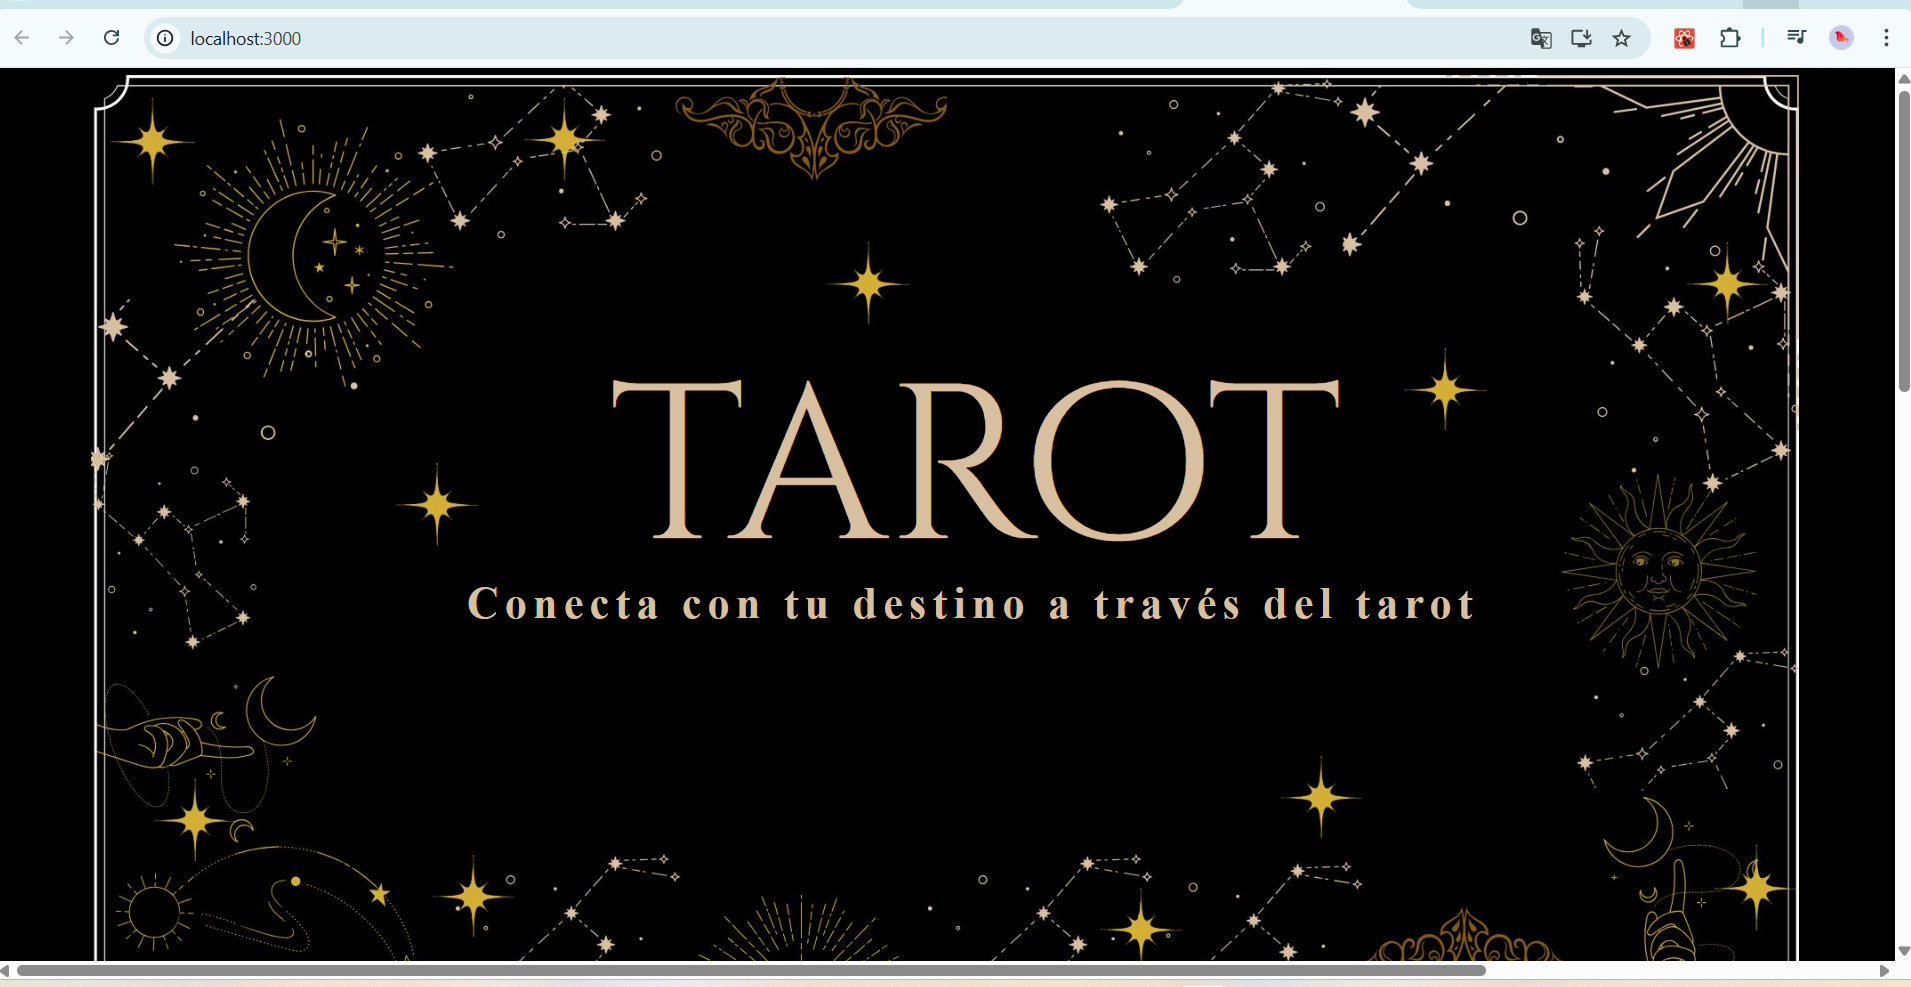
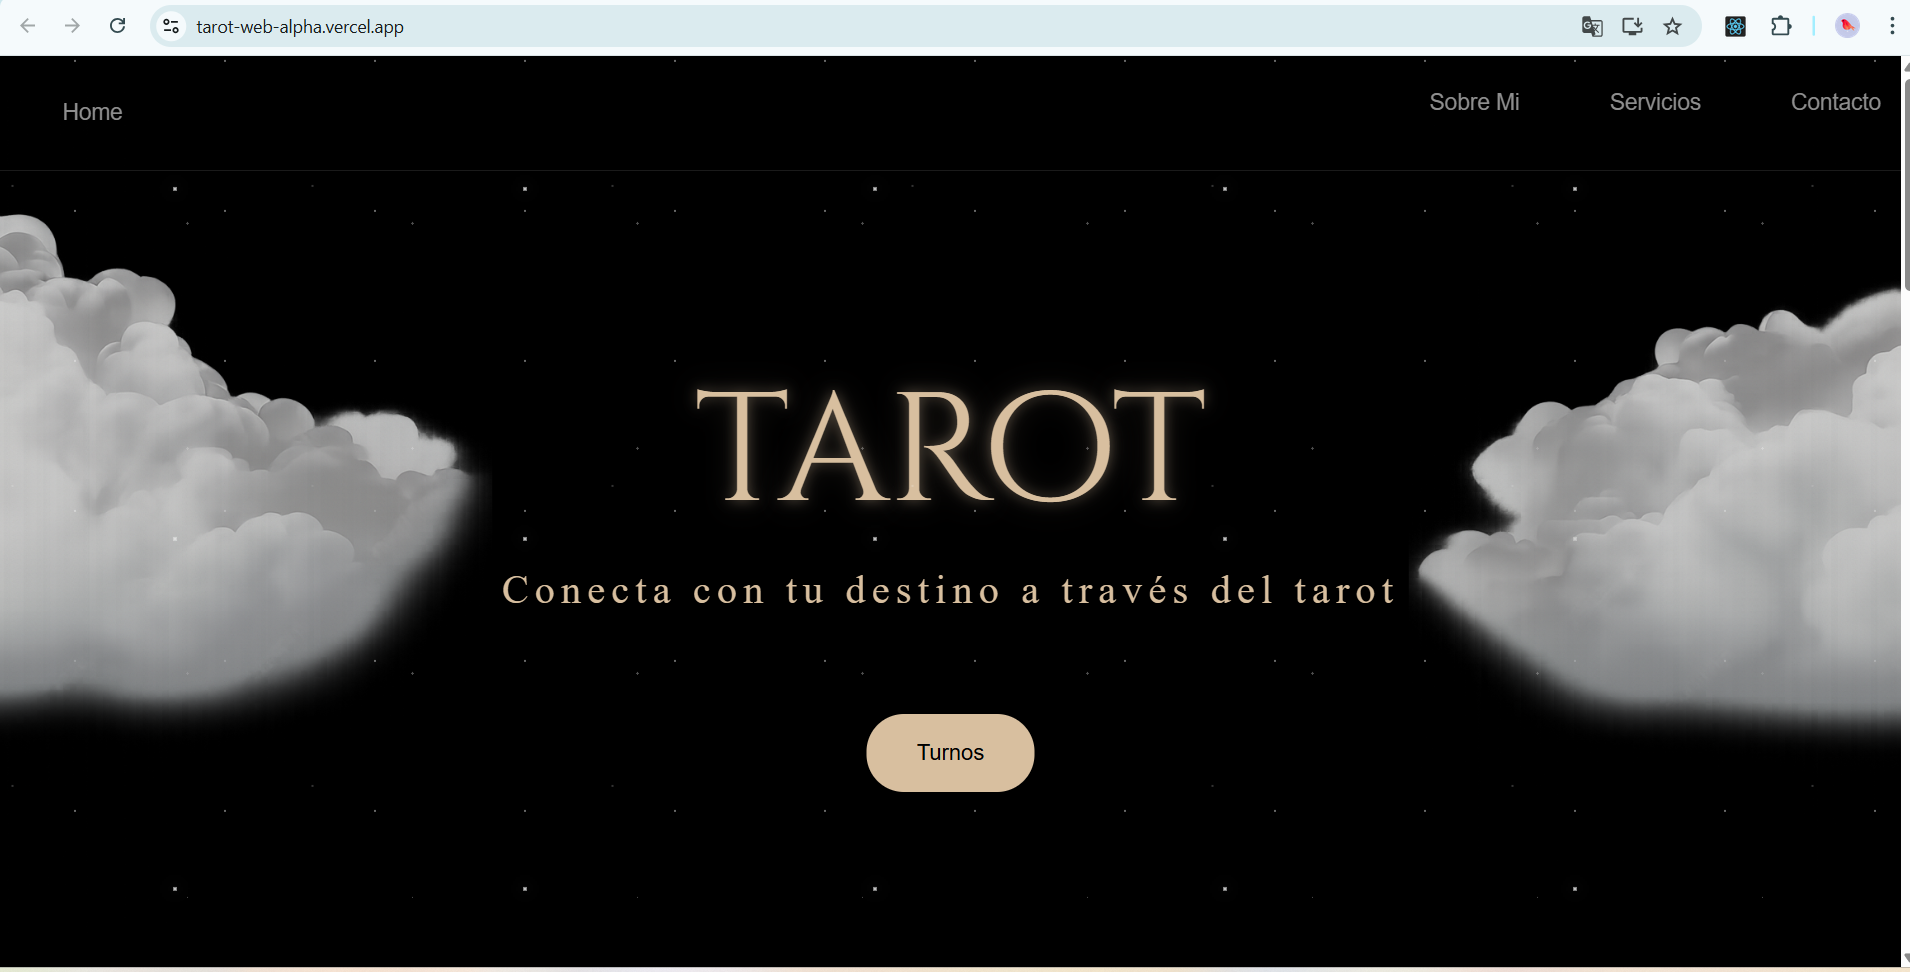
New Proyect added, Tarot Web

diff --git a/Documents/portfolio-new/src/components/Projects/Projects.js b/Documents/portfolio-new/src/components/Projects/Projects.js
@@ -31,10 +31,11 @@ const Projects = () => {
                         <ProjectCard
                         imgPath={tarot}
                         isBlog={false}
-                        title="Tarot Turnera"
-                        description="Landing base con la informacion completa de todos los servicios que brinda la especilista. Formulario para sacar turnos, confirmacion del mismo via mail."
-                        ghLink="https://github.com/caroescalante/RV-WebC"
-                        // demoLink="https://rv-web-c.vercel.app/"              
+                        title="Tarot Landing"
+                        description="Landing base con la informacion completa de todos los servicios que brinda la especilista. 
+                            Formulario para sacar turnos, redireccionamiento directo a Whatsapp."
+                        ghLink="https://github.com/caroescalante/tarot-web"
+                        demoLink="https://tarot-web-alpha.vercel.app/"              
                         />
                     </Col>
 
